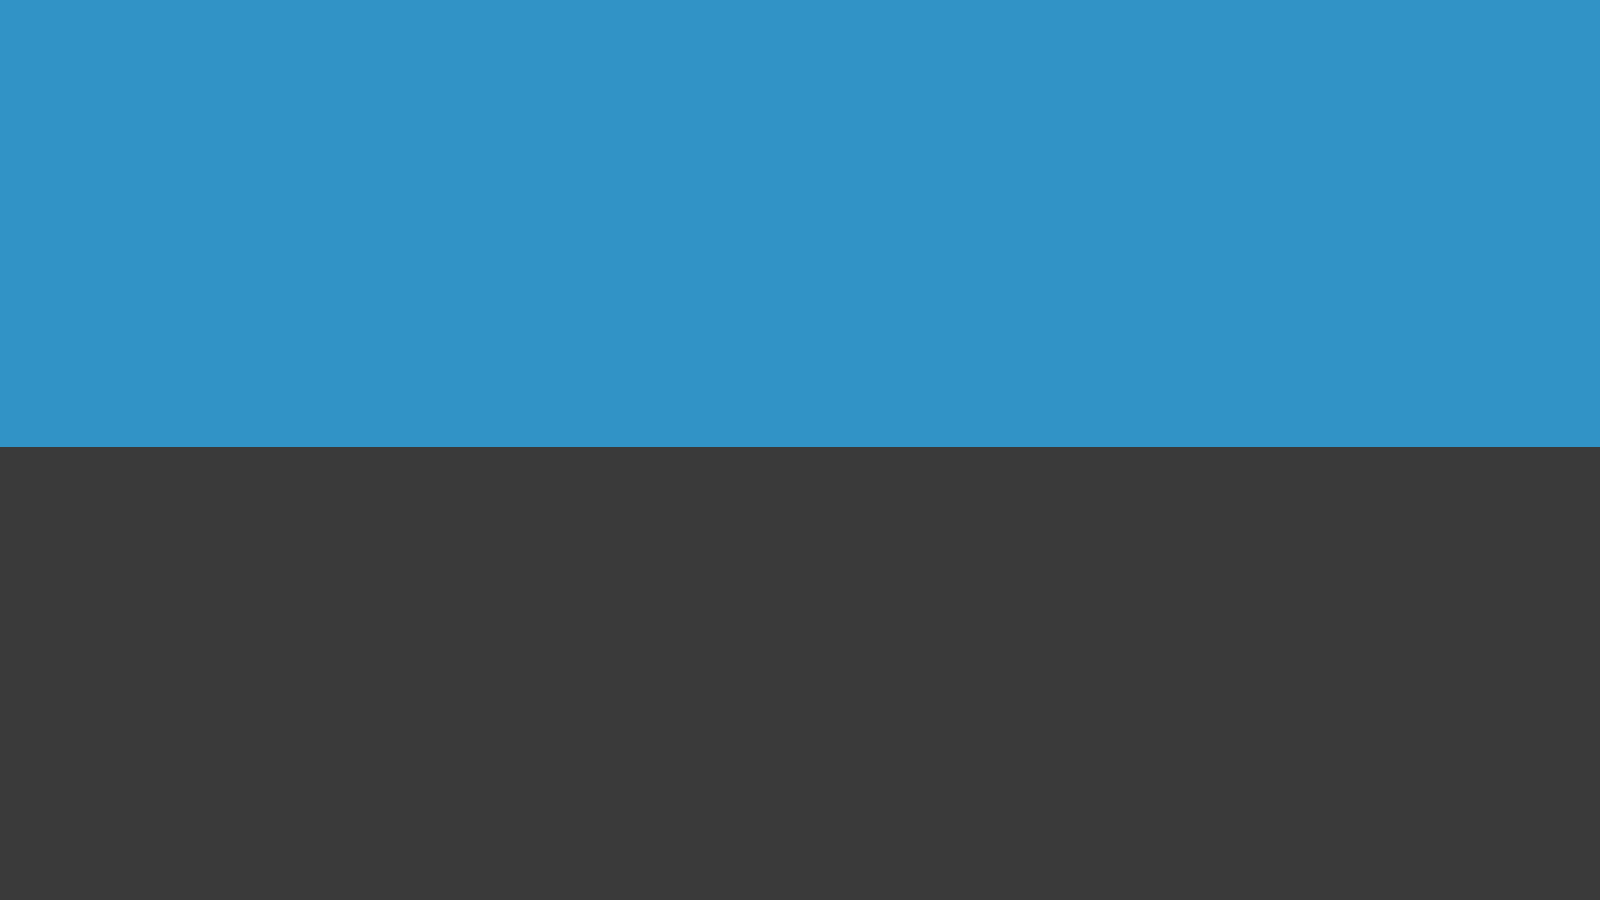
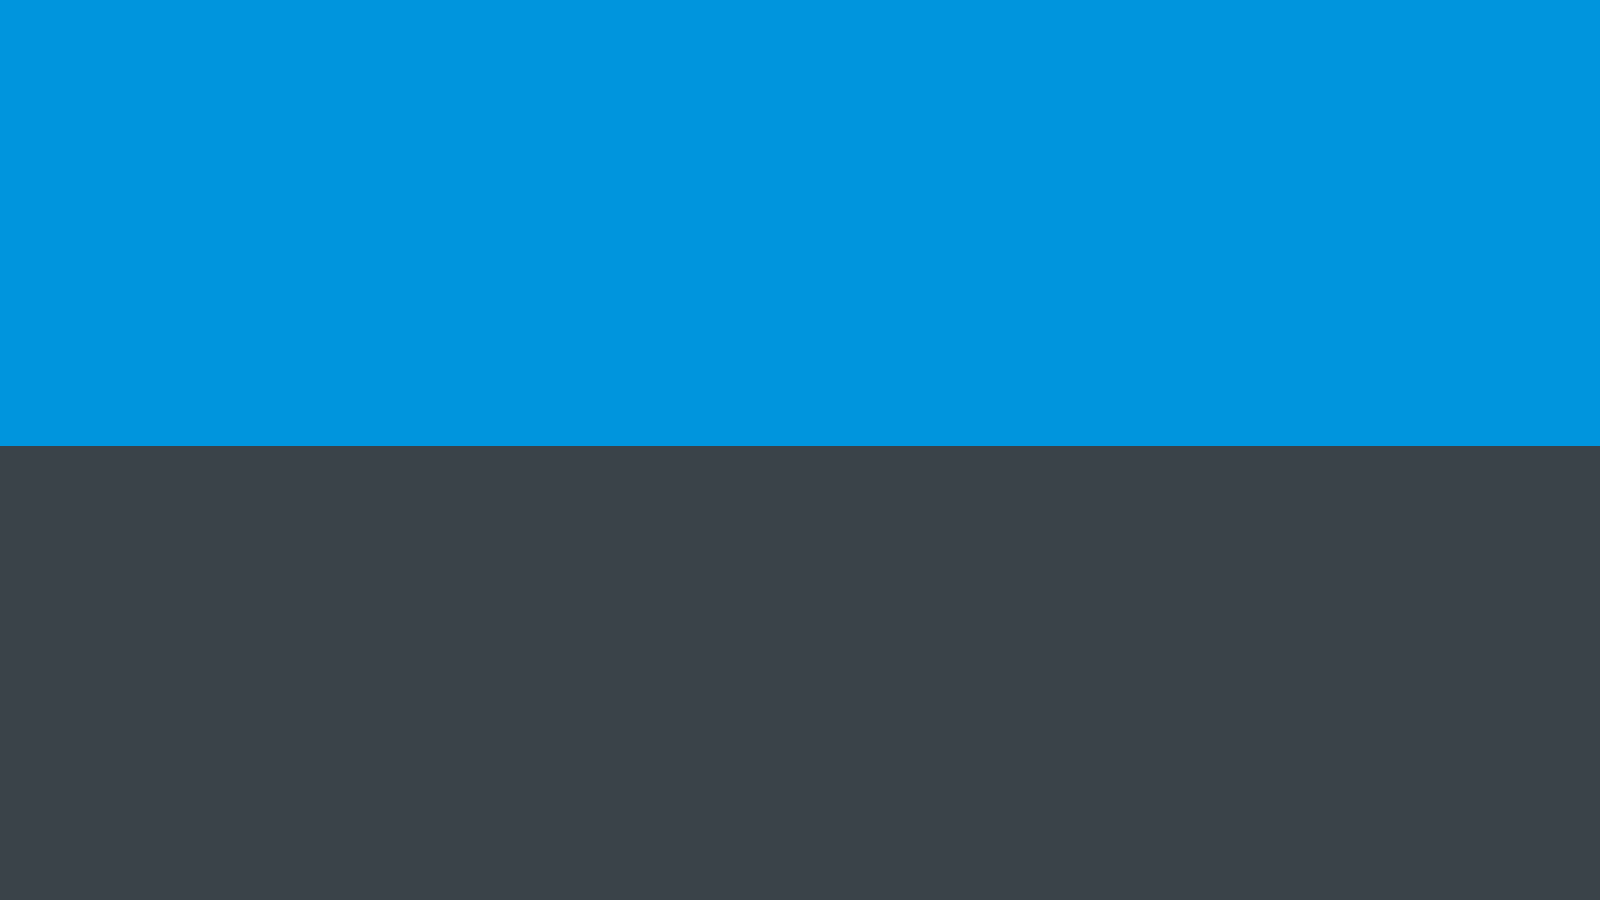
updating color palette slightly to match Mozilla branding

diff --git a/site/css/style.css b/site/css/style.css
@@ -50,7 +50,7 @@ a:hover {
 
 button {
   padding-bottom: 2px;
-  background-color: #41c3ac;
+  background-color: #49BA7C;
   font-weight: bold;
   text-align: center;
   color: rgb(22, 22, 22);
@@ -58,17 +58,17 @@ button {
 }
 
 .btn-primary {
-  background: #41c3ac;
+  background: #49BA7C;
   border-color: #2aa08b;
 }
 
 .btn-primary:hover {
-  background: #24a08a;
+  background: #74C593;
   border-color: #34b7a0;
 }
 
 footer a {
-  color: #0096dd;
+  color: #0095DD;
   text-decoration: none;
 }
 
@@ -143,7 +143,7 @@ h5 {
 
 .main-header {
   -webkit-box-shadow: rgba(0, 0, 0, 0.5) 0px 1px 1px 0px;
-  background-color: #3a3a3a;
+  background-color: #3A4349;
   box-shadow: rgba(0, 0, 0, 0.5) 0px 1px 1px 0px;
   display: block;
   font-family: sans-serif;
